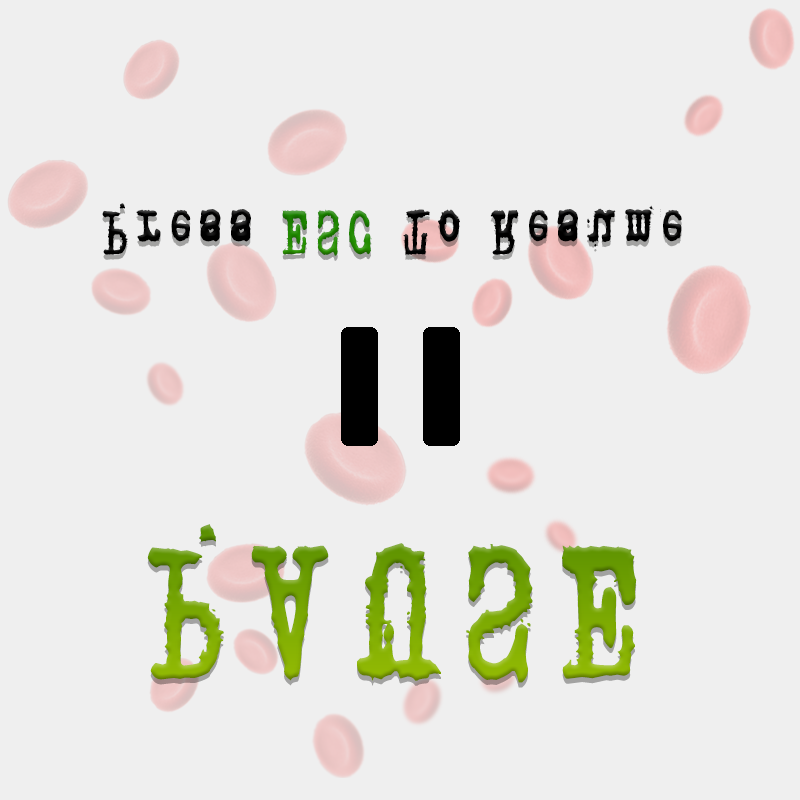
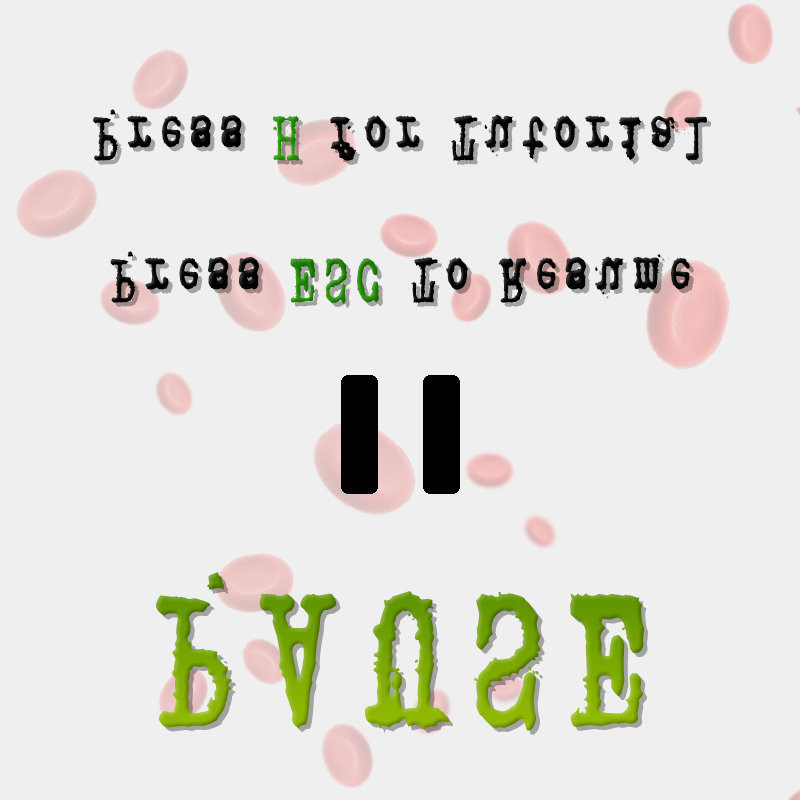
Pfizer Ability Set
close #14

diff --git a/C++ Game/projects/Cell-Ops-Vaccination/src/Gameplay/Components/AbilityBehaviour.cpp b/C++ Game/projects/Cell-Ops-Vaccination/src/Gameplay/Components/AbilityBehaviour.cpp
@@ -1,25 +1,81 @@
 #include "AbilityBehaviour.h"
 
-AbilityBehaviour::AbilityBehaviour():
-    IComponent()
-{
-}
-
 AbilityBehaviour::~AbilityBehaviour() = default;
+
+AbilityBehaviour::AbilityBehaviour() :
+    IComponent(),
+    _coolDownTimer(1000.0f),
+    _abilityIndex(3),
+    _abilityActiveCounter(0.0f),
+    _isAbilityActive(false)
+{}
 
 void AbilityBehaviour::Update(float deltaTime)
 {
+    if (_isAbilityActive) {
+        _abilityActiveCounter--;
+        if (_abilityActiveCounter < 0) {
+            switch (_abilityIndex)
+            {
+            case 1:
+                //return "Johnson & Johnson";
+                _johnsonJohnson();
+                break;
+            case 2:
+               //return "Moderna";
+                _moderna();
+                break;
+            case 3:
+                //return "Pfizer-BioNTech";
+                _pfizerBioNTech();
+                break;
+            default:
+                break;
+            }
+        }
+    }
+    else 
+        _coolDownTimer--;
+
+    if (InputEngine::GetKeyState(GLFW_KEY_E) == ButtonState::Pressed) 
+    {
+        if (_coolDownTimer < 1.0f) {
+            ///Do ability
+            switch (_abilityIndex)
+            {
+            case 1:
+                //Johnson & Johnson
+                _johnsonJohnson();
+                break;
+            case 2:
+                //Moderna
+                _moderna();
+                break;
+            case 3:
+                //Pfizer-BioNTech Movment Speed Boost
+                _pfizerBioNTech();                
+                break;
+            default:
+                break;
+            }
+        }
+        else {
+            //play sound that ability isnt ready
+            audioEngine->playSoundByName("AbilityNotReady");
+        }
+    }
 }
 
 void AbilityBehaviour::RenderImGui()
 {
-    ImGui::DragFloat, "Cool down on Ability", & _coolDownTimer);
+    ImGui::DragFloat( "Cool down on Ability", & _coolDownTimer);
+    ImGui::DragInt("Ability Index: ", &_abilityIndex);
 }
 
 nlohmann::json AbilityBehaviour::ToJson() const
 {
     return {
-
+        {"Ability Index",_abilityIndex},
     };
 }
 
@@ -28,4 +84,62 @@ AbilityBehaviour::Sptr AbilityBehaviour::FromJson(const nlohmann::json& blob)
     AbilityBehaviour::Sptr result = std::make_shared<AbilityBehaviour>();
 
     return result;
+}
+
+void AbilityBehaviour::SetPlayersAbilityChoice(std::string Ability)
+{
+    if (Ability == "Johnson & Johnson") {
+        _abilityIndex = 1;
+    }
+    else if (Ability == "Moderna") {
+        _abilityIndex = 2;
+    }
+    else if (Ability == "Pfizer-BioNTech") {
+        _abilityIndex = 3;
+    }
+}
+
+std::string AbilityBehaviour::GetPlayersAbilityChoice()
+{
+    switch (_abilityIndex)
+    {
+    case 1:
+        return "Johnson & Johnson";
+        break;
+    case 2:
+        return "Moderna";
+        break;
+    case 3:
+        return "Pfizer-BioNTech";
+        break;
+    default:
+        return "No Ability";
+        break;
+    }
+}
+
+void AbilityBehaviour::_pfizerBioNTech()
+{
+    if (!GetGameObject()->GetScene()->MainCamera->GetComponent<SimpleCameraControl>()->isAbilityActive) {
+        GetGameObject()->GetScene()->MainCamera->GetComponent<SimpleCameraControl>()->isAbilityActive = true;
+        audioEngine->playSoundByName("AbilityPfizer-BioNTech");
+        _abilityActiveCounter = 500.0f;
+        _isAbilityActive = true;
+    }
+    else
+    {
+        GetGameObject()->GetScene()->MainCamera->GetComponent<SimpleCameraControl>()->isAbilityActive = false;
+        _coolDownTimer = 1500.0f;
+        _isAbilityActive = false;
+    }
+}
+
+void AbilityBehaviour::_moderna()
+{
+    audioEngine->playSoundByName("AbilityModerna");
+}
+
+void AbilityBehaviour::_johnsonJohnson()
+{
+    audioEngine->playSoundByName("AbilityJohnson&Johnson");
 }

diff --git a/C++ Game/projects/Cell-Ops-Vaccination/src/Gameplay/Components/AbilityBehaviour.h b/C++ Game/projects/Cell-Ops-Vaccination/src/Gameplay/Components/AbilityBehaviour.h
@@ -1,6 +1,10 @@
 #pragma once
 #include "IComponent.h"
+#include <Utils/ImGuiHelper.h>
 #include "Utils/AudioEngine.h"
+#include <Gameplay/InputEngine.h>
+#include <Gameplay/Components/SimpleCameraControl.h>
+#include <Gameplay/Scene.h>
 
 /// <summary>
 /// Ability Class
@@ -13,20 +17,59 @@ public:
 	AbilityBehaviour();
 	virtual ~AbilityBehaviour();
 
+	MAKE_TYPENAME(AbilityBehaviour);
 	virtual void Update(float deltaTime) override;
 	virtual void RenderImGui() override;
 	virtual nlohmann::json ToJson() const override;
 	static AbilityBehaviour::Sptr FromJson(const nlohmann::json& blob);
 
+	//Audio 
+	AudioEngine* audioEngine = AudioEngine::instance();
+	
 	/// <summary>
+	/// Set Players ability
 	/// Abilities are 
 	/// Johnson & Johnson
 	/// Moderna
 	/// Pfizer-BioNTech
 	/// </summary>
-	std::string PlayersAbilityChoice;
+	/// <param name="Ability">Johnson & Johnson, Moderna or Pfizer-BioNTech</param>
+	void SetPlayersAbilityChoice(std::string Ability);
+
+	/// <summary>
+	/// Returns players ability choise as a string
+	/// </summary>
+	/// <returns></returns>
+	std::string GetPlayersAbilityChoice();
 
 private:
+	bool _isAbilityActive;
+	int _abilityIndex;
+	/// <summary>
+	/// Time till Ability avaible again
+	/// </summary>
 	float _coolDownTimer;
+
+	/// <summary>
+	/// Timer to turn off ability after set time
+	/// </summary>
+	float _abilityActiveCounter;
+	
+	/// <summary>
+	/// Pfizer-BioNTech
+	/// Increase Speed Boost 
+	/// </summary>
+	void _pfizerBioNTech();
+
+	/// <summary>
+	/// Moderna Ability
+	/// </summary>
+	void _moderna();
+
+	/// <summary>
+	/// Johnson & Johnson Ability
+	/// Player can one hit
+	/// </summary>
+	void _johnsonJohnson();
 };
 

diff --git a/C++ Game/projects/Cell-Ops-Vaccination/src/Application/Layers/DefaultSceneLayer.cpp b/C++ Game/projects/Cell-Ops-Vaccination/src/Application/Layers/DefaultSceneLayer.cpp
@@ -243,6 +243,12 @@ void DefaultSceneLayer::_CreateScene()
 		//Audio Files
 		AudioEngine* audioEngine = AudioEngine::instance();
 		audioEngine->init();
+
+		audioEngine->loadSound("AbilityNotReady", "sounds/AbilityNotReady.wav", true);
+		audioEngine->loadSound("AbilityReady", "sounds/AbilityReady.wav",true);
+		audioEngine->loadSound("AbilityModerna", "sounds/ModernaPowerUp.wav", true);
+		audioEngine->loadSound("AbilityPfizer-BioNTech", "sounds/AbilityPfizer-BioNTech.mp3",false);
+		audioEngine->loadSound("AbilityJohnson&Johnson", "sounds/JJPowerUp.wav", false);
 		audioEngine->loadSound("background", "sounds/Background(AiryHeartBeat).mp3", true,true,true);
 		audioEngine->loadSound("menuBackground", "sounds/MenuBackgroundSound2.mp3", true,true);
 		audioEngine->loadSound("targetDeath", "sounds/Background(AiryHeartBeat.Fast).mp3", true);

diff --git a/C++ Game/projects/Cell-Ops-Vaccination/src/Gameplay/Components/SimpleCameraControl.cpp b/C++ Game/projects/Cell-Ops-Vaccination/src/Gameplay/Components/SimpleCameraControl.cpp
@@ -15,7 +15,8 @@ SimpleCameraControl::SimpleCameraControl() :
 	_moveSpeeds(glm::vec3(10.0f)),
 	_shiftMultipler(4.0f),
 	_currentRot(glm::vec2(0.0f)),
-	_isMousePressed(false)
+	_isMousePressed(false),
+	isAbilityActive(false)
 { }
 
 SimpleCameraControl::~SimpleCameraControl() = default;
@@ -61,6 +62,10 @@ void SimpleCameraControl::Update(float deltaTime)
 		}
 
 		if (InputEngine::IsKeyDown(GLFW_KEY_LEFT_SHIFT)) {
+			if (isAbilityActive) {
+				input *= (_shiftMultipler*2);
+			}
+			else
 			input *= _shiftMultipler;
 		}
 

diff --git a/C++ Game/projects/Cell-Ops-Vaccination/src/Gameplay/Components/UIController.cpp b/C++ Game/projects/Cell-Ops-Vaccination/src/Gameplay/Components/UIController.cpp
@@ -117,7 +117,7 @@ void UiController::SetupGameScreen()
 void UiController::GameTitleScreen()
 {
 	Gameplay::GameObject::Sptr GameTitle = GetGameObject()->GetScene()->CreateGameObject("Game Title"); {
-		//audioEngine->playSoundByName("menuBackground");
+		audioEngine->playSoundByName("menuBackground");
 		RectTransform::Sptr transform = GameTitle->Add<RectTransform>();
 		transform->SetSize({ 800,800 });
 		transform->SetMin({ 0,0 });

diff --git a/C++ Game/projects/Cell-Ops-Vaccination/src/Gameplay/Scene.cpp b/C++ Game/projects/Cell-Ops-Vaccination/src/Gameplay/Scene.cpp
@@ -537,7 +537,7 @@ namespace Gameplay {
 					GamePause(IsPaused);
 				}
 			}
-			if (InputEngine::GetKeyState(GLFW_KEY_H) == ButtonState::Pressed) {
+			if ((InputEngine::GetKeyState(GLFW_KEY_H) == ButtonState::Pressed) && IsPaused){
 				if (IsPaused && IsPauseUIUp && IsTutorialFinish) {
 					UiControllerObject->Get<UiController>()->GameTutorial("Pause", 1);
 					IsPauseUIUp = false;

diff --git a/C++ Game/projects/Cell-Ops-Vaccination/src/Gameplay/Components/SimpleCameraControl.h b/C++ Game/projects/Cell-Ops-Vaccination/src/Gameplay/Components/SimpleCameraControl.h
@@ -22,6 +22,8 @@ public:
 	virtual nlohmann::json ToJson() const override;
 	static SimpleCameraControl::Sptr FromJson(const nlohmann::json& blob);
 
+	bool isAbilityActive;
+
 protected:
 	float _shiftMultipler;
 	glm::vec2 _mouseSensitivity;
